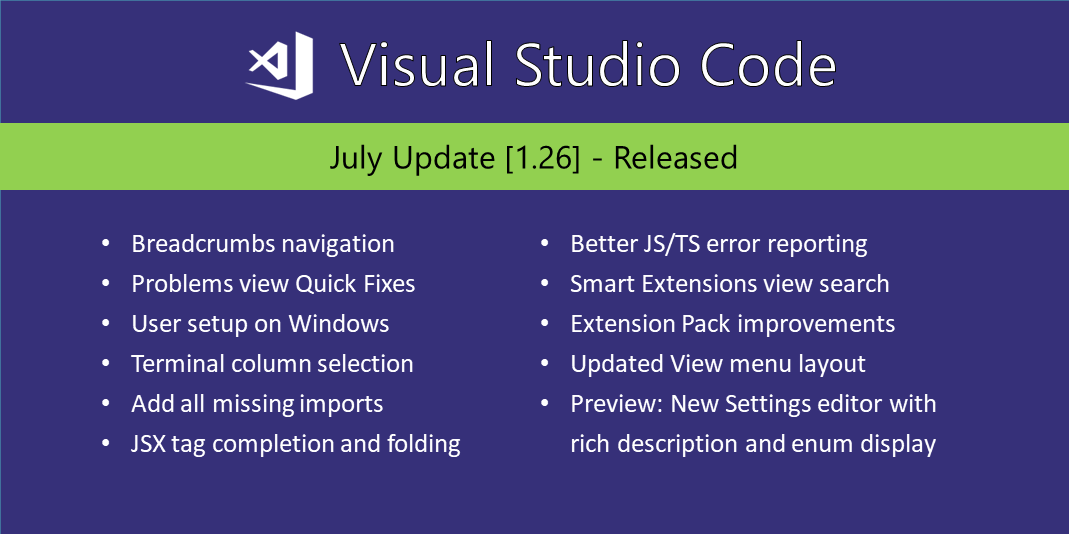
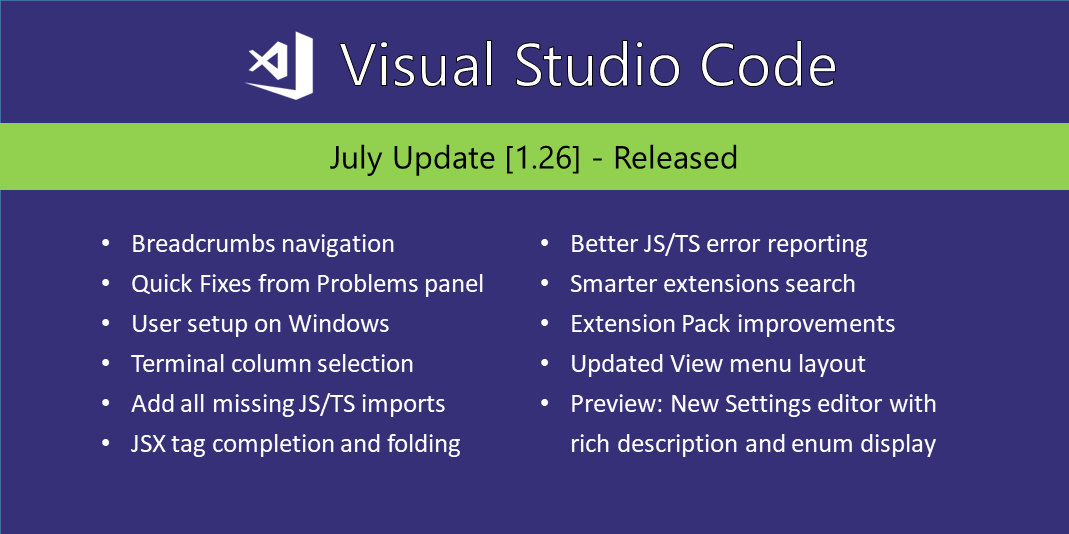
Feedback on 1.26 social image

Changed region(s): [[0.1235, 0.5094, 0.463, 0.5693], [0.5865, 0.5094, 0.8335, 0.5693], [0.2778, 0.7191, 0.4322, 0.779]]

diff --git a/release-notes/v1_26.md b/release-notes/v1_26.md
@@ -14,13 +14,13 @@ DownloadVersion: 1.26.0
 Welcome to the July 2018 release of Visual Studio Code. There are a number of significant updates in this version that we hope you will like, some of the key highlights include:
 
 * **[Breadcrumbs](#breadcrumbs)** - Breadcrumb navigation lets you jump to files anywhere in your workspace.
-* **[Problems view Quick Fixes](#problems-view-quick-fixes)** - Apply code fixes while reviewing warnings and errors.
+* **[Quick Fixes from Problems panel](#problems-panel-quick-fixes)** - Apply code fixes while reviewing warnings and errors.
 * **[User setup on Windows](#user-setup-for-windows)** - Elevation no longer required during Windows setup.
 * **[Terminal column selection](#column-selection)** - Alt+click to select blocks of text in the integrated terminal.
-* **[Add all missing imports](#add-all-missing-imports-quick-fix)** - Single action to add all missing imports in a file.
+* **[Add all missing imports](#add-all-missing-imports-quick-fix)** - Single action to add all missing imports in a JavaScript/TypeScript file.
 * **[JSX tag completion](#jsx-tag-completion)** - Work with JSX tags just like you do in HTML.
 * **[Better JS/TS error reporting](#better-error-reporting)** - Concise, clear messages with relevant source code links.
-* **[Smart extensions search](#intellisense-for-extension-search)** - Filter Marketplace queries to find the extensions you want.
+* **[Smarter extensions search](#intellisense-for-extension-search)** - Filter Marketplace queries to find the extensions you want.
 * **[Extension Pack improvements](#extension-packs-revisited)** - Manage Extension Packs as a single unit or by individual extension.
 * **[Preview: Settings editor](#new-settings-editor)** - Rich settings description display, TOC tracks scrolling.
 
@@ -56,7 +56,7 @@ To interact with breadcrumbs, use the **Focus Breadcrumbs** command or press `kb
 
 You can also interact with breadcrumbs without the picker. Press `kb(breadcrumbs.focus)` to focus the last element, use `kb(breadcrumbs.focusPrevious)` and `kb(breadcrumbs.focusNext)` to navigate, and use `kb(breadcrumbs.revealFocused)` to reveal the element in the editor.
 
-### Problems view Quick Fixes
+### Problems panel Quick Fixes
 
 You can now apply Quick Fixes from the Problems view. A light bulb indicating Quick Fixes is shown when you hover or select a problem entry. Quick Fixes can be applied by clicking on the light bulb or by opening the context menu for the problem entry.
 
@@ -484,7 +484,7 @@ export interface UriHandler {
 }
 
 export namespace window {
-	export function registerUriHandler(handler: UriHandler): Disposable;
+    export function registerUriHandler(handler: UriHandler): Disposable;
 }
 ```
 
